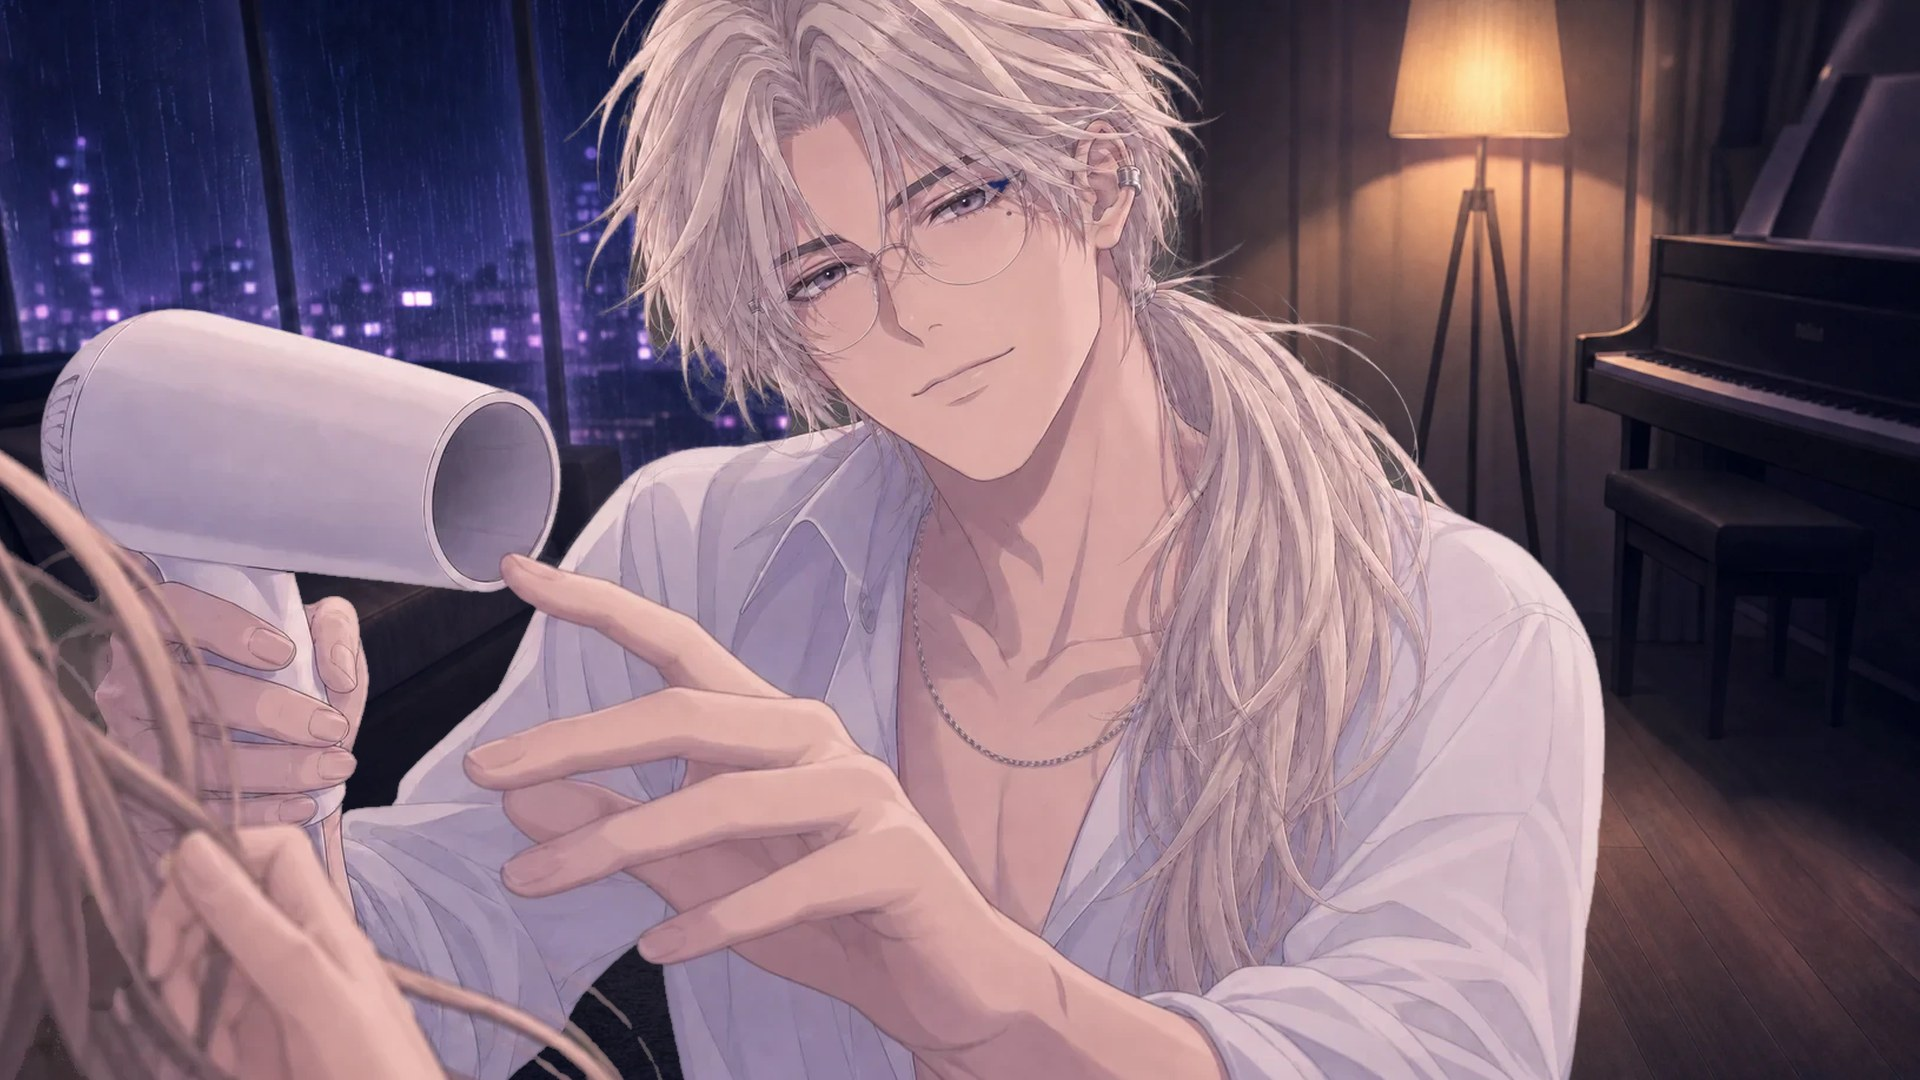
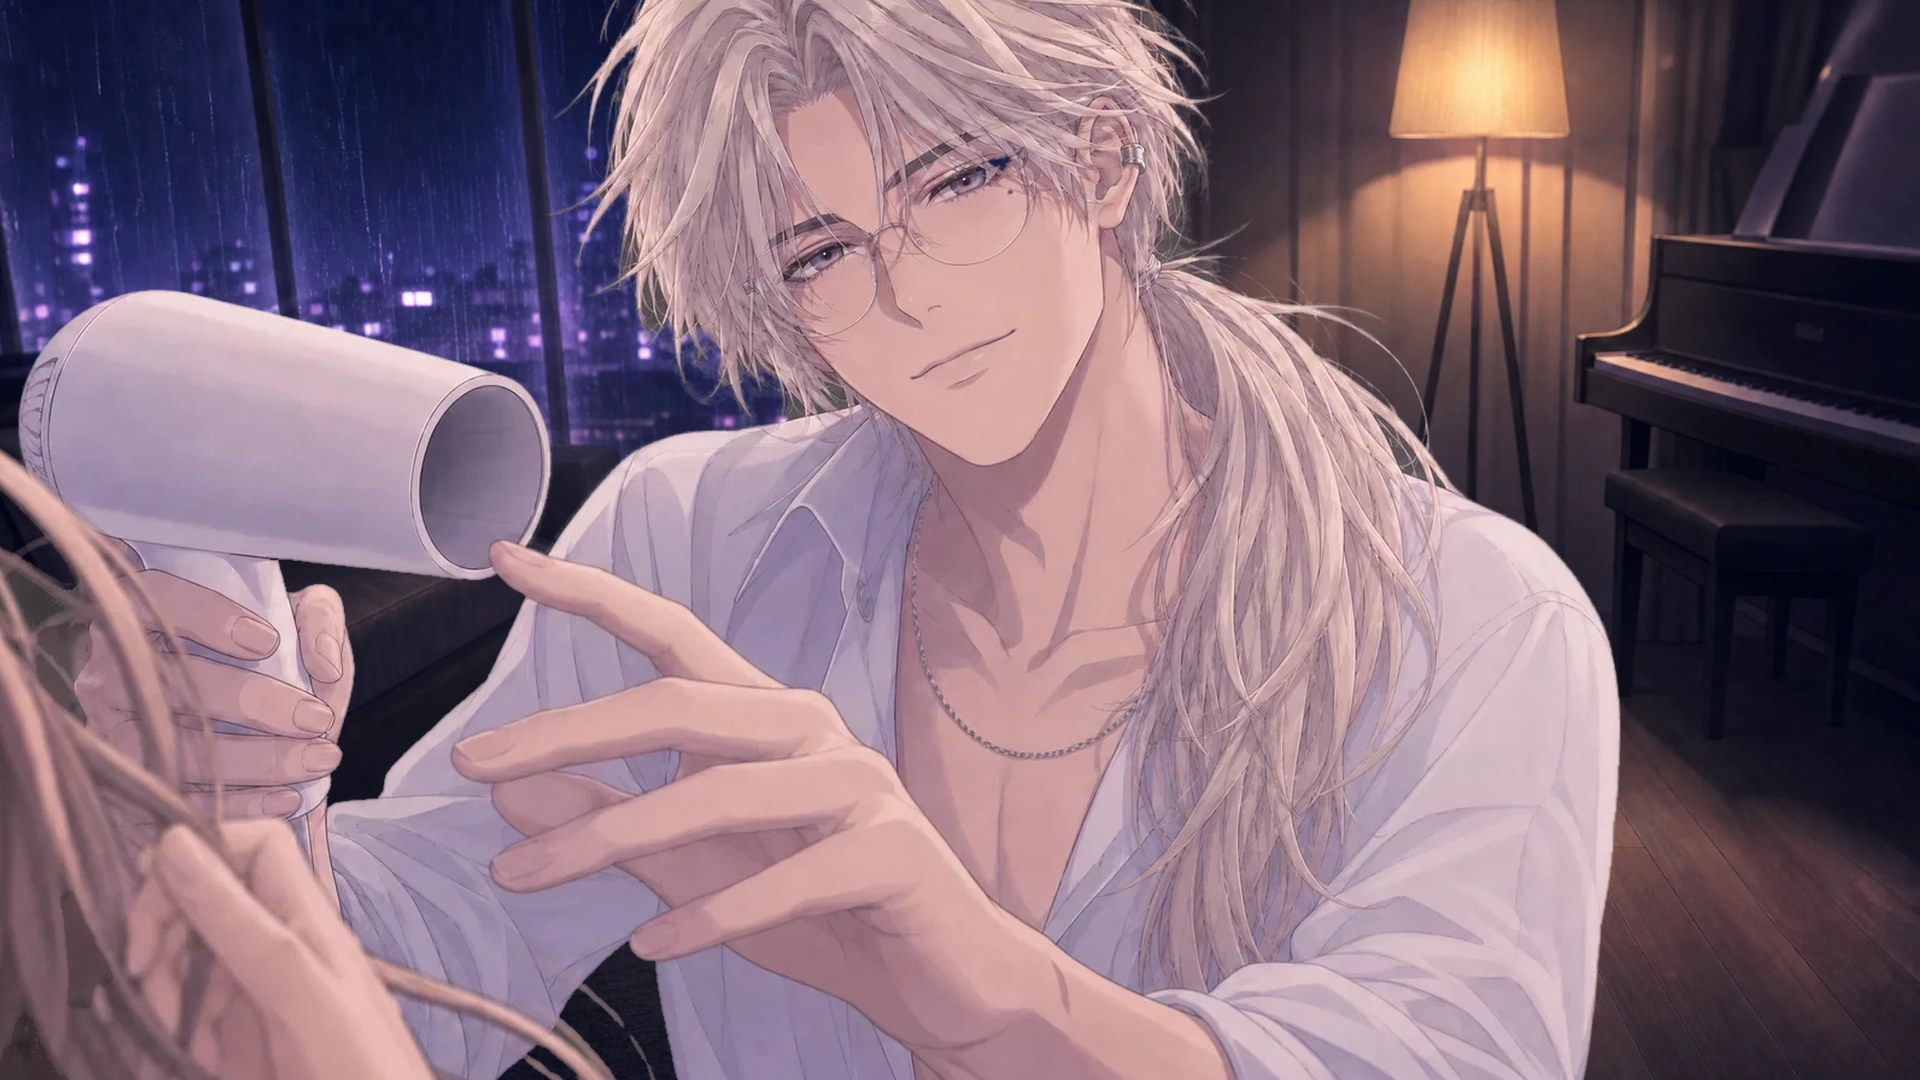
Demo22_ShionRain: figures moved a little so complete edges sit ≥ 1 % inside / cut edges ≥ 1.5 % outside the frame (place_view.py, no rebuild)

diff --git a/demos/for-women/Demo22_ShionRain/media/layers.js b/demos/for-women/Demo22_ShionRain/media/layers.js
@@ -180,7 +180,7 @@ window.MOHEAT_LAYERS = {
     "h": 954,
     "x": 0.502,
     "y": 1.02,
-    "height": 1.04,
+    "height": 1.065,
     "box": [
      364,
      0,
@@ -261,7 +261,7 @@ window.MOHEAT_LAYERS = {
     "h": 954,
     "x": 0.502,
     "y": 1.02,
-    "height": 1.04,
+    "height": 1.065,
     "box": [
      364,
      0,
@@ -423,7 +423,7 @@ window.MOHEAT_LAYERS = {
     "src": "art/char_whisper.webp?v=256453d2",
     "w": 1700,
     "h": 961,
-    "x": 0.5,
+    "x": 0.505,
     "y": 1.02,
     "height": 1.06,
     "box": [
